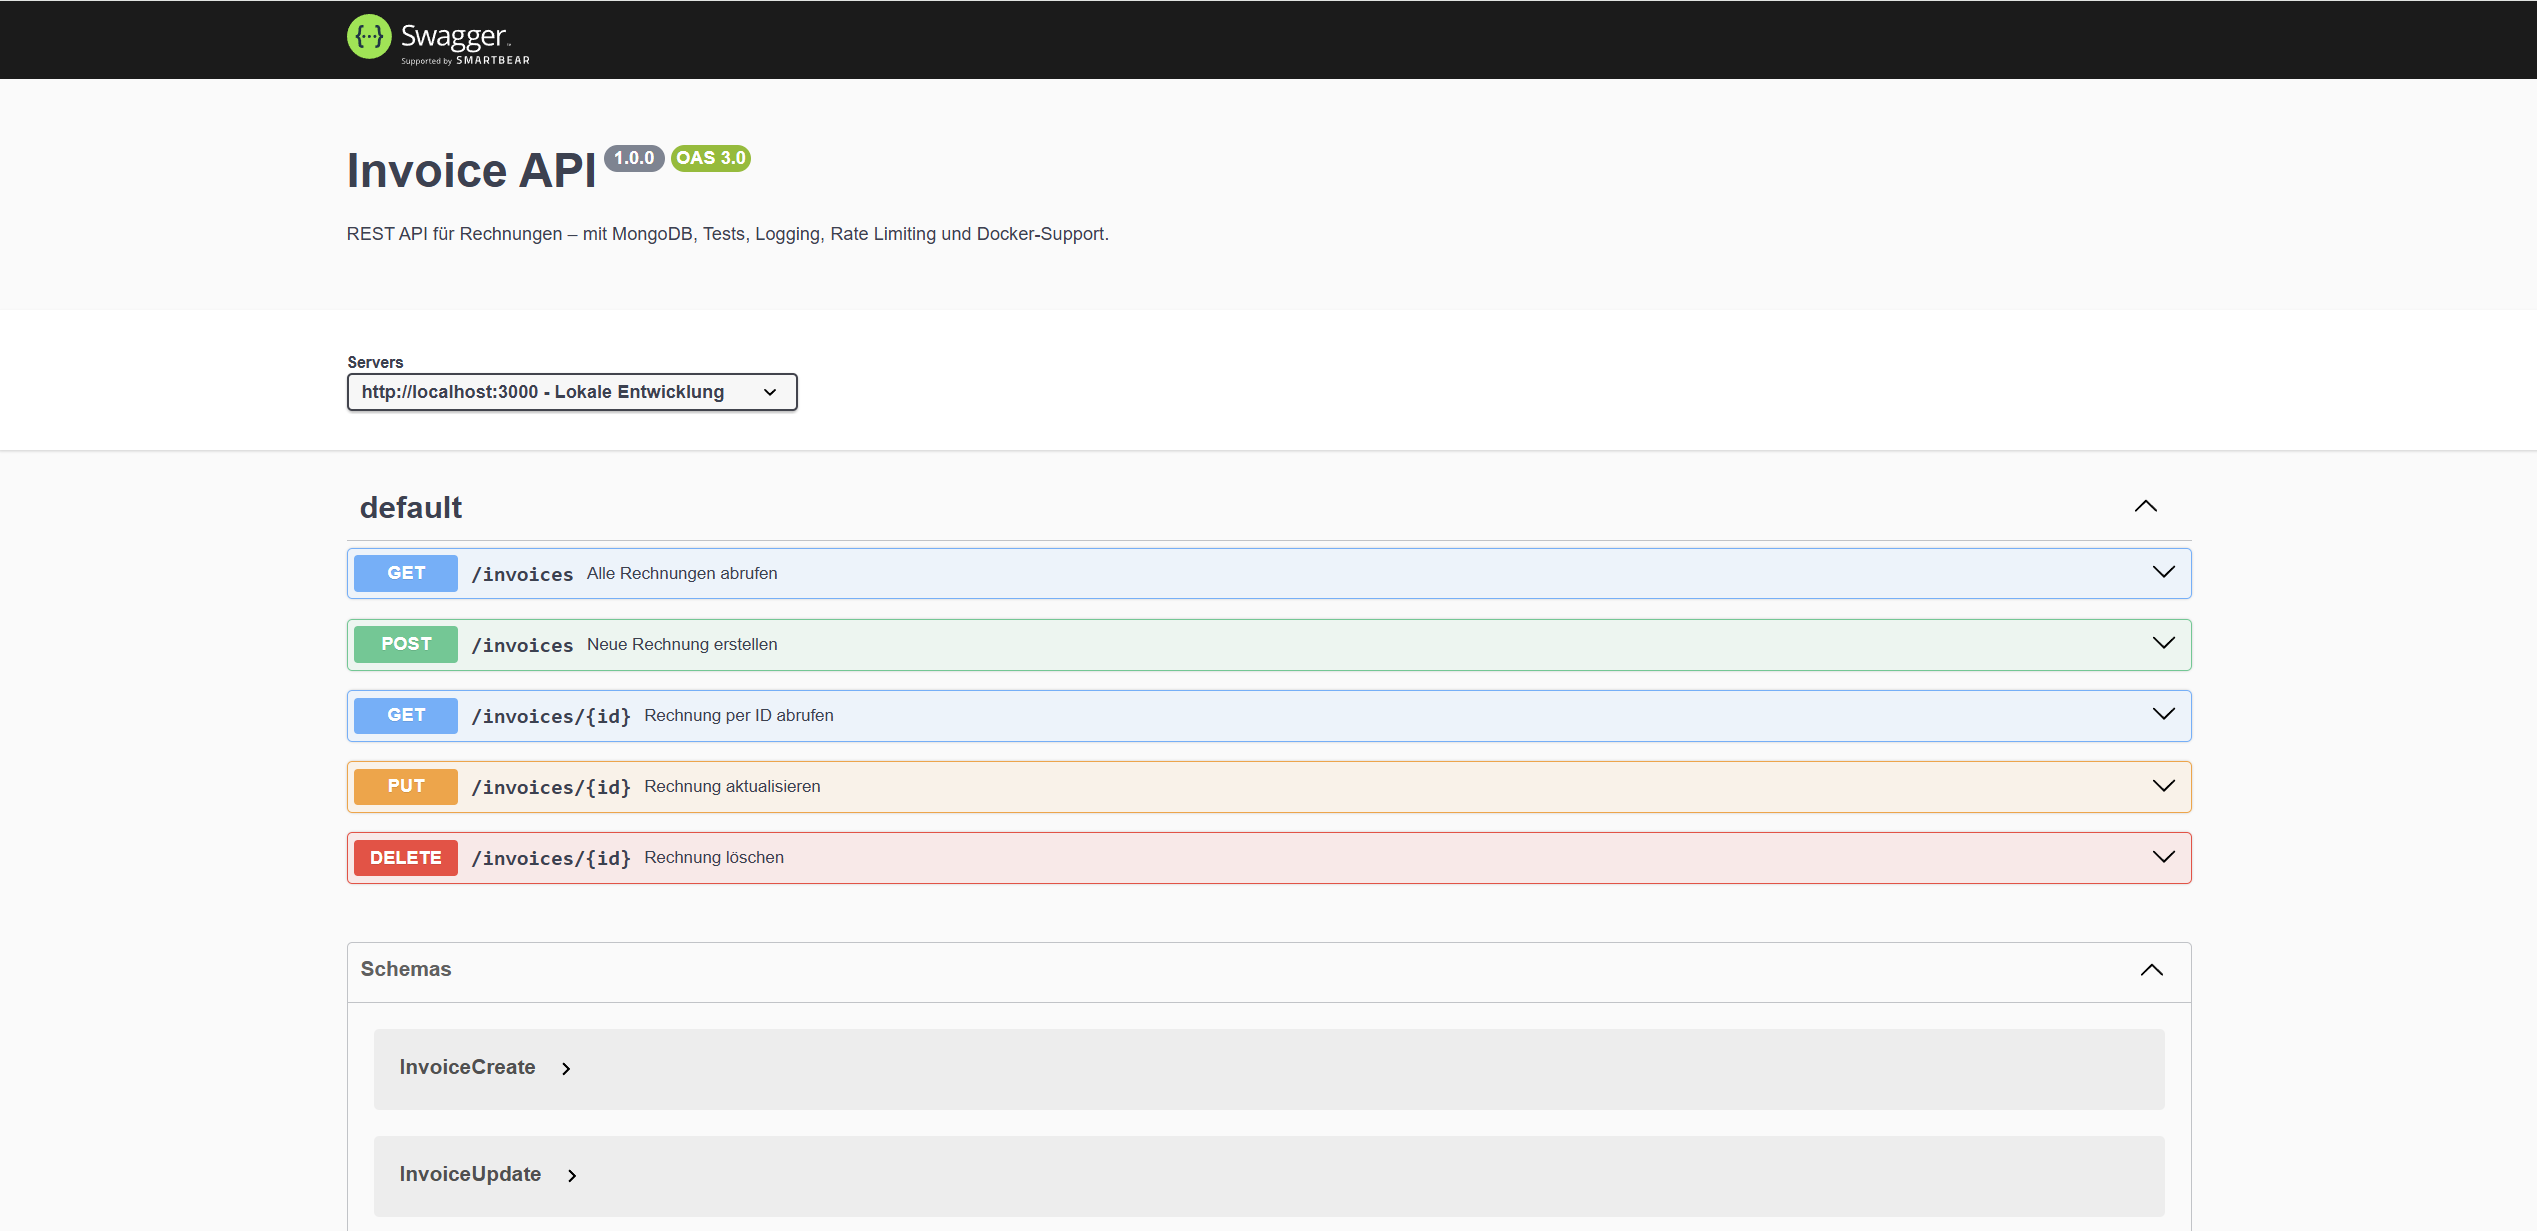
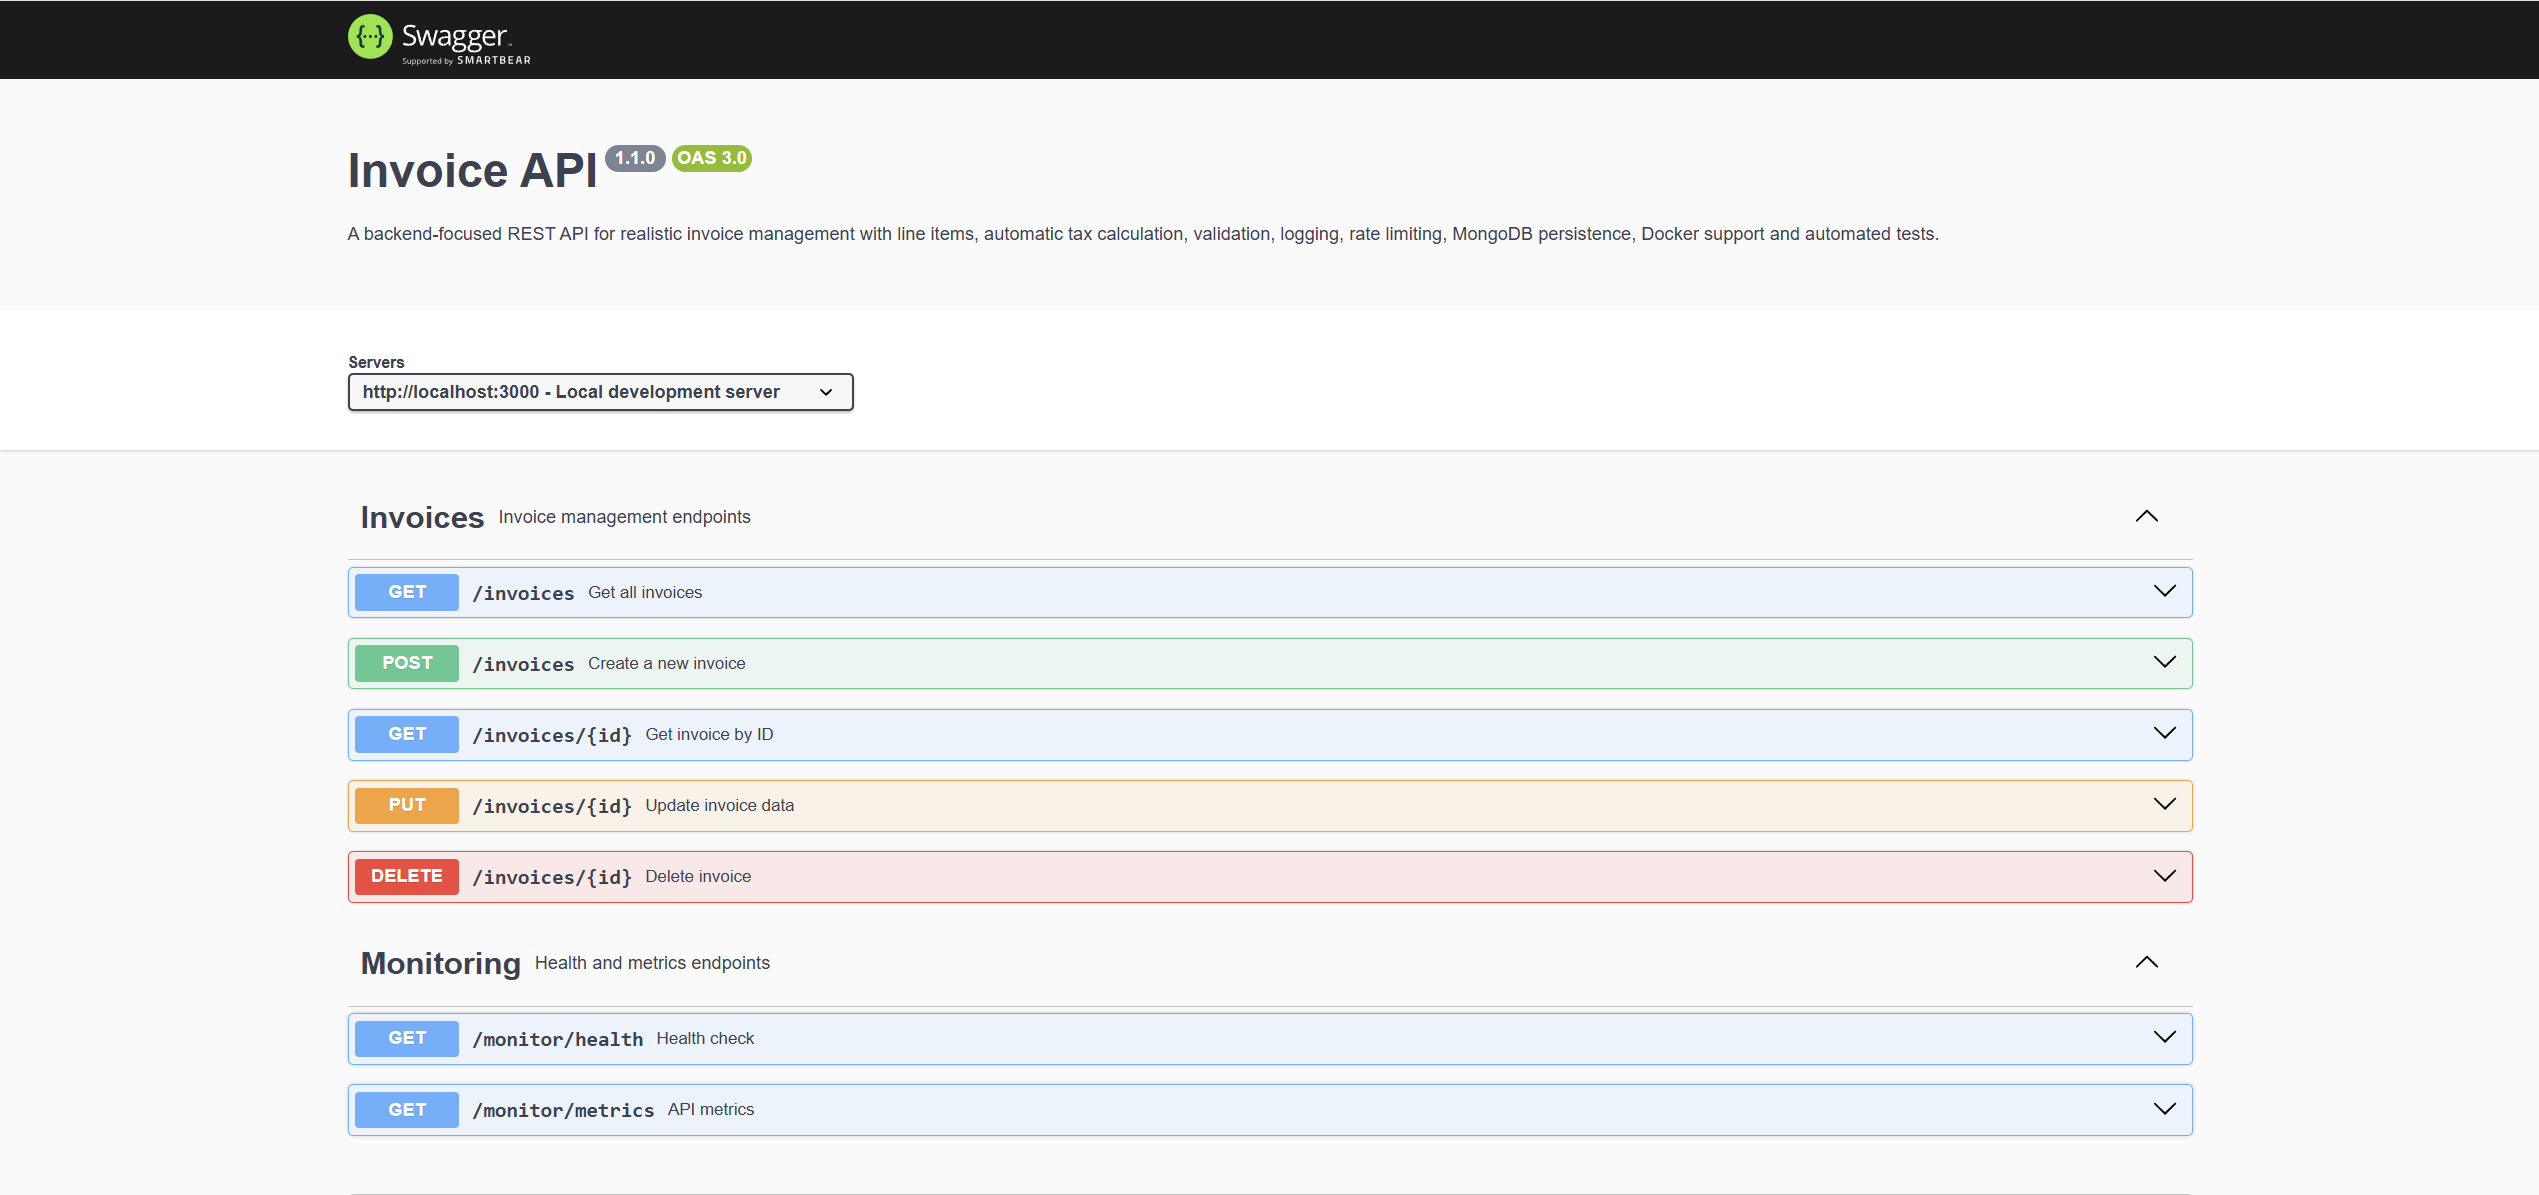
Document production deployment and clean invoice index

diff --git a/models/invoice.js b/models/invoice.js
@@ -159,7 +159,6 @@ const invoiceSchema = new mongoose.Schema(
 );
 
 invoiceSchema.index({ status: 1, createdAt: -1 });
-invoiceSchema.index({ invoiceNumber: 1 }, { unique: true });
 
 const Invoice = mongoose.model("Invoice", invoiceSchema);
 

diff --git a/README.md b/README.md
@@ -1,11 +1,14 @@
 # Invoice API
 
+![CI](https://github.com/tabari86/invoice-api/actions/workflows/ci.yml/badge.svg)
 ![Node.js](https://img.shields.io/badge/Node.js-22-green?logo=nodedotjs)
 ![Express](https://img.shields.io/badge/Express-API-black?logo=express)
 ![MongoDB](https://img.shields.io/badge/MongoDB-Mongoose-green?logo=mongodb)
 ![Docker](https://img.shields.io/badge/Docker-Ready-blue?logo=docker)
 ![Jest](https://img.shields.io/badge/Tests-Passing-success?logo=jest)
 ![Swagger](https://img.shields.io/badge/OpenAPI-3.0-brightgreen)
+
+
 
 A backend-focused REST API for managing invoices with line items, automatic tax calculation, MongoDB persistence, Swagger documentation, Docker support and automated API tests.
 
@@ -82,6 +85,28 @@ INV-2026-000001
 * Docker
 * Winston
 * Morgan
+
+---
+
+## Live Deployment
+
+The API is deployed on Render and available at:
+
+```text
+https://invoice-api-disf.onrender.com
+```
+
+### Production Endpoints
+
+| Endpoint                                               | Description               |
+| ------------------------------------------------------ | ------------------------- |
+| `https://invoice-api-disf.onrender.com/`               | API root endpoint         |
+| `https://invoice-api-disf.onrender.com/monitor/health` | Production health check   |
+| `https://invoice-api-disf.onrender.com/api-docs`       | Swagger API documentation |
+
+### Production Swagger Preview
+
+![Production Swagger UI](docs/swagger-ui.png)
 
 ---
 
@@ -190,20 +215,49 @@ http://localhost:3000/api-docs
 ```text
 invoice-api/
 │
+├── .github/
+│   └── workflows/
+│       └── ci.yml
+│
 ├── controllers/
+│   └── invoiceController.js
+│
 ├── docs/
+│   └── swagger-ui.png
+│
 ├── middleware/
+│   ├── rateLimiter.js
+│   ├── requestLogger.js
+│   └── validateRequest.js
+│
 ├── models/
+│   └── invoice.js
+│
 ├── routes/
+│   ├── invoiceRoutes.js
+│   └── monitorRoutes.js
+│
 ├── services/
+│   └── invoiceService.js
+│
 ├── swagger/
+│   └── swagger.json
+│
 ├── tests/
+│   ├── invoice.api.test.js
+│   └── invoice.test.js
+│
 ├── utils/
+│   └── logger.js
+│
+├── validation/
+│   └── invoiceValidation.js
 │
 ├── Dockerfile
 ├── docker-compose.yml
 ├── index.js
 ├── package.json
+├── package-lock.json
 └── README.md
 ```
 
@@ -329,10 +383,8 @@ PATCH /invoices/:id/cancel
 
 ## Author
 
-**Mojtaba Tabari**
+**Moj Tabari**
 
-Website:
-https://mtintelligence.ai
+- Website: [mtintelligence.ai](https://mtintelligence.ai)
 
-LinkedIn:
-https://www.linkedin.com/in/moj-tabari-04a400227/
+- LinkedIn: [Mojtaba Tabari](https://www.linkedin.com/in/moj-tabari-04a400227/)